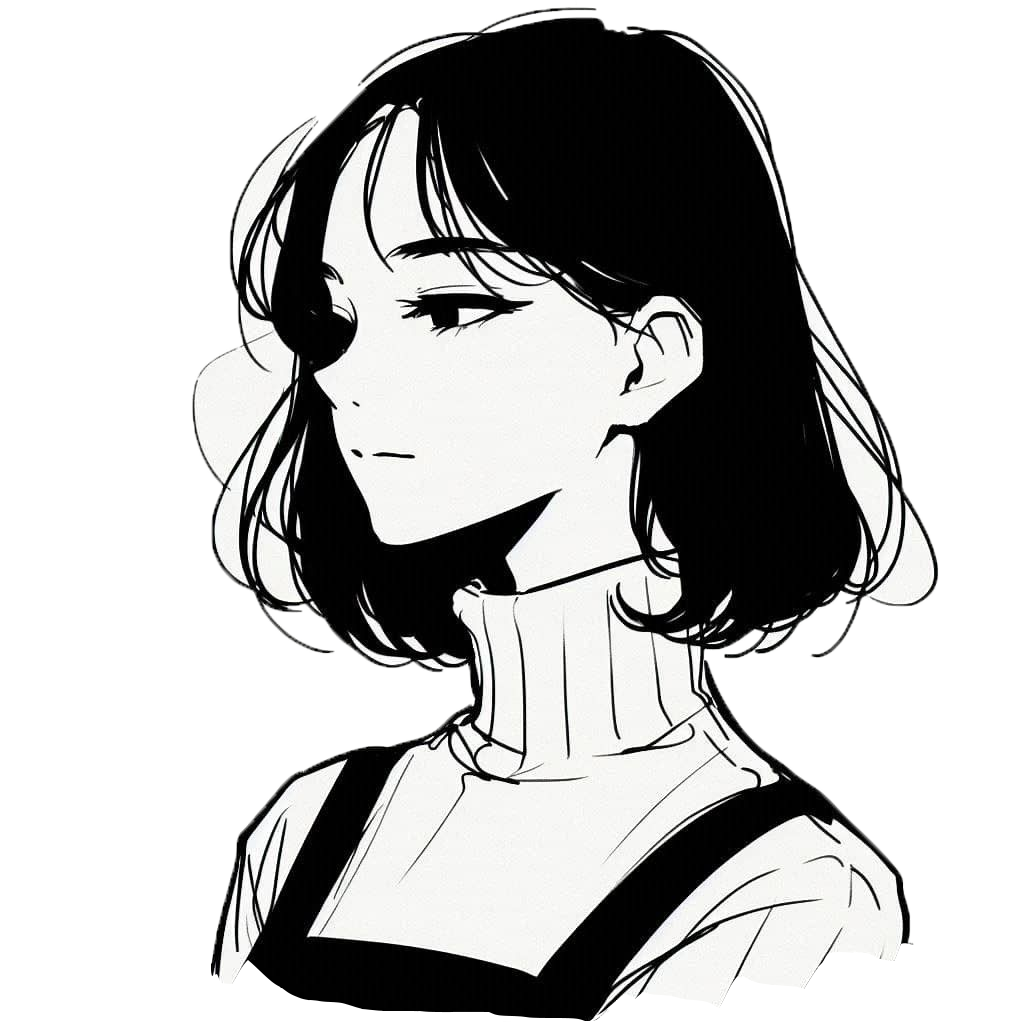
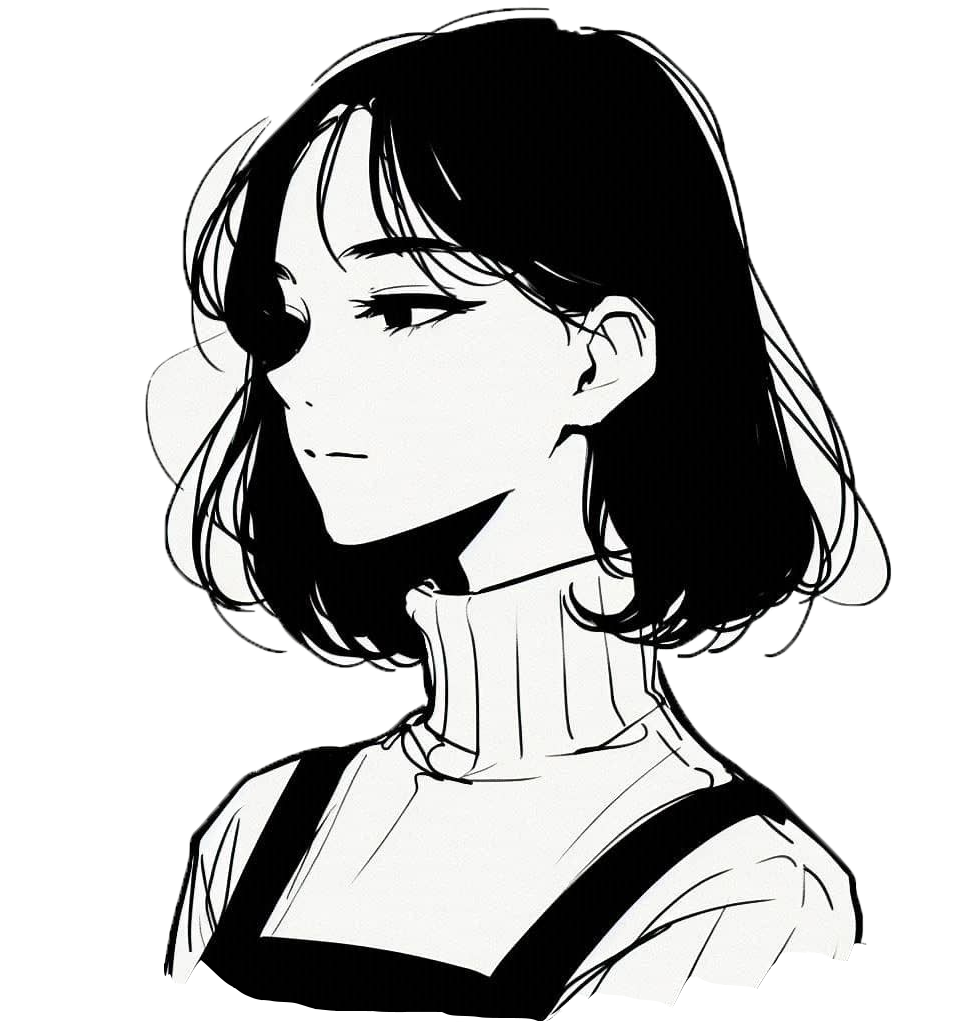
revised about content, home portrait

diff --git a/src/pages/PageAbout.jsx b/src/pages/PageAbout.jsx
@@ -25,16 +25,14 @@ return (
 
 			<div className="about-left">
 				<h1>Hello, <br />
-				I'm Nana!</h1>
+				I'm Nana.</h1>
 
 				<div className="about-details">
-					<p>I'm a web developer and designer based in <strong>Vancouver, BC</strong>. My passion for designing webpages started with one goal: to make a Myspace page that made people go WOW!</p>
+					<p>I'm a Front-End Developer and UX/UI Designer based in Vancouver.</p>
 
-					<p>But with Myspace coming to an end, I found myself looking towards other pursuits. I graduated with a degree in Business Management and Psychology.</p>
-
-					<p>It wasn't until I was well into my corporate career did I realize a future in web development was possible. It was a difficult choice, as is every career change, but when I set foot in BCIT's Front-End Developer Program, I knew this was where I wanted to be.</p>
-
-					<p>So now I'm back here with the same goal: to make you go WOW!</p>
+					<p>To me, development is a lot like storytelling where every colour, every piece of content, and every line of code builds a unique experience for the end user.</p>
+					
+					<p>Along with my Front-End Web Development certificate from BCIT, I hold a BA in Business Management and Psychology with a specialization in positive psychology - a subfield that focuses on human satisfaction and accomplishment. I take this people-first, interaction-oriented approach when conceptualizing my designs.</p>
 				</div>
 			</div>
 
@@ -65,14 +63,14 @@ return (
 								<Accordion.Item eventKey="0">
 									<Accordion.Header>What are your hobbies?</Accordion.Header>
 									<Accordion.Body>
-										<p>Writing and drawing - I want to illustrate the stories in my head! I also love reading. Some of my favourite authors are Uketsu and Gillian Flynn.</p>
+										<p>Writing! I've been telling stories for as long as I can remember. I also love reading. Some of my favourite authors are Uketsu and Gillian Flynn.</p>
 									</Accordion.Body>
 								</Accordion.Item>
 
 								<Accordion.Item eventKey="1">
 									<Accordion.Header>How about your MBTI?</Accordion.Header>
 									<Accordion.Body>
-										<p>Drumroll please ... INTP! Creative and resourceful, I like to push the envelope of what is possible, analyzing, researching, and plunging myself into the depths of whatever captures my interest.</p>
+										<p>INTP, the Logician. Creative and resourceful, I like to push the envelope of what is possible, analyzing, researching, and plunging myself into the depths of whatever captures my interest. Lately, it's been the Hook Model.</p>
 									</Accordion.Body>
 								</Accordion.Item>
 

diff --git a/src/styles/components/_page-home.scss b/src/styles/components/_page-home.scss
@@ -11,7 +11,7 @@
 .home-tagline {
 	display: grid;
 	grid-template-columns: repeat(2, 1fr);
-	grid-template-rows: 60% 40%;
+	grid-template-rows: 60% 40% 40%;
 
 	// name
 	span:nth-child(1) {
@@ -28,11 +28,18 @@
 	span:nth-child(2),
 	span:nth-child(3) {
 		grid-row-start: 2;
-		font-size: 1.5rem;
+		font-size: 1.25rem;
 		font-weight: $bold;
 		text-transform: uppercase;
 		align-self: end;
-		justify-self: center;
+	}
+
+	span:nth-child(2) {
+		justify-self: start;
+	}
+
+	span:nth-child(3) {
+		justify-self: end;
 	}
 }
 
@@ -63,12 +70,14 @@
 		// taglines
 		span:nth-child(2) {
 			font-size: 2rem;
-			padding-right: 5rem;
+			justify-self: center;
+			padding-right: 7rem;
 		}
 
 		span:nth-child(3) {
 			font-size: 2rem;
-			padding-left: 5rem;
+			justify-self: center;
+			padding-left: 7rem;
 		}
 	}
 

diff --git a/src/styles/components/_page-about.scss b/src/styles/components/_page-about.scss
@@ -52,7 +52,7 @@
 		max-width: none;
 		display: grid;
 		grid-template-columns: repeat(2, 1fr);
-		margin: 5rem 2rem 0 5rem;
+		margin: 5rem;
 		gap: 5rem;
 	}
 
@@ -69,7 +69,7 @@
 
 	.about-details {
 		margin-top: 2rem;
-		font-size: 1.1rem;
+		font-size: 1.25rem;
 
 		p {
 			padding: 0.5rem 0;
@@ -81,6 +81,7 @@
 	}
 
 	.toolbox-container {
+		margin: 0 auto;
 		width: 50%;
 	}
 }

diff --git a/src/pages/PageHome.jsx b/src/pages/PageHome.jsx
@@ -32,7 +32,7 @@ function PageHome(){
 					<div className="home-tagline">
 						<span>Nana</span>
 						<span>Developer</span>
-						<span>Designer</span>
+						<span>UX/UI Designer</span>
 					</div>
 					<img src={portrait} alt="portrait" className="home-portrait" />
 				</section>

diff --git a/src/components/Header.jsx b/src/components/Header.jsx
@@ -7,7 +7,7 @@ const Header = () => {
       <>
         <header>
           <div className="logo">
-            <Link to="/"><img src={logo} /></Link>
+            <Link to="/"><img src={logo} alt="logo" /></Link>
           </div>
         </header>
       </>
